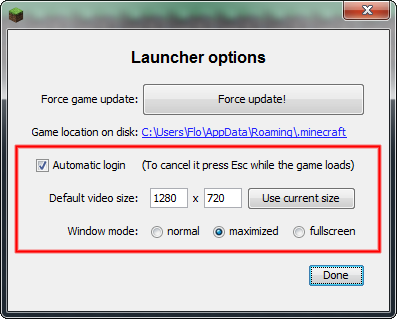
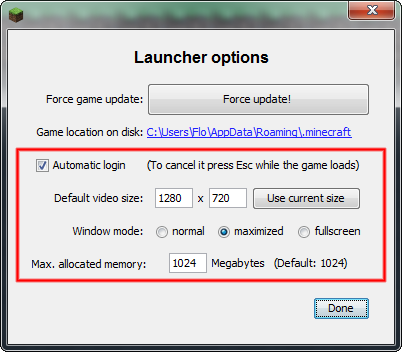
Release 2: Added option to change -Xmx setting (max. allocated memory)

diff --git a/src/MinecraftLauncher.java b/src/MinecraftLauncher.java
@@ -1,0 +1,66 @@
+// Decompiled by Jad v1.5.8g. Copyright 2001 Pavel Kouznetsov.
+// Jad home page: http://www.kpdus.com/jad.html
+// Decompiler options: packimports(3) braces deadcode 
+
+package net.minecraft;
+
+import java.net.URI;
+import java.net.URL;
+import java.security.CodeSource;
+import java.security.ProtectionDomain;
+import java.util.ArrayList;
+
+// Referenced classes of package net.minecraft:
+//            LauncherFrame
+
+public class MinecraftLauncher
+{
+
+    public MinecraftLauncher()
+    {
+    }
+
+    public static void main(String args[])
+        throws Exception
+    {
+        float f = Runtime.getRuntime().maxMemory() / 1024L / 1024L;
+        if(f > 511F)
+        {
+            LauncherFrame.main(args);
+        } else
+        {
+            try
+            {
+                String s = (net.minecraft.MinecraftLauncher.class).getProtectionDomain().getCodeSource().getLocation().toURI().getPath();
+                ArrayList arraylist = new ArrayList();
+                arraylist.add("javaw");
+                /* Auto login >>> */
+                //arraylist.add("-Xmx1024m");
+                arraylist.add("-Xmx" + LauncherOptions.get("Java-RAM", "1024") + "m");
+                /* <<< Auto login */
+                arraylist.add("-Dsun.java2d.noddraw=true");
+                arraylist.add("-Dsun.java2d.d3d=false");
+                arraylist.add("-Dsun.java2d.opengl=false");
+                arraylist.add("-Dsun.java2d.pmoffscreen=false");
+                arraylist.add("-classpath");
+                arraylist.add(s);
+                arraylist.add("net.minecraft.LauncherFrame");
+                ProcessBuilder processbuilder = new ProcessBuilder(arraylist);
+                Process process = processbuilder.start();
+                if(process == null)
+                {
+                    throw new Exception("!");
+                }
+                System.exit(0);
+            }
+            catch(Exception exception)
+            {
+                exception.printStackTrace();
+                LauncherFrame.main(args);
+            }
+        }
+    }
+
+    private static final int MIN_HEAP = 511;
+    private static final int RECOMMENDED_HEAP = 1024;
+}

diff --git a/src/OptionsPanel.java b/src/OptionsPanel.java
@@ -131,6 +131,14 @@ public class OptionsPanel extends JDialog
         else
         	stateNormal.setSelected(true);
         /* <<< Auto Resize */
+        /* RAM Mod >>> */
+        JPanel ramPanel = new JPanel();
+        final JTextField ramField = new JTextField( LauncherOptions.get("Java-RAM", "1024"), 4 );
+        ramPanel.add(ramField, "West");
+        ramPanel.add(new JLabel("Megabytes   (Default: 1024)"), "Center");
+        jpanel2.add(new JLabel("Max. allocated memory:", 4));
+        jpanel3.add(ramPanel);
+        /* <<< RAM Mod */
         JPanel jpanel4 = new JPanel(new BorderLayout());
         jpanel4.add(new JPanel(), "Center");
         JButton jbutton = new JButton("Done");
@@ -148,6 +156,11 @@ public class OptionsPanel extends JDialog
             	if( stateFullscreen.isSelected() )
             		javax.swing.JOptionPane.showMessageDialog(OptionsPanel.this, "You have selected fullscreen mode.\nThis window mode has some limitations at the moment because of a bug in Minecraft.\nYou will not be able to leave it with F11, for example.", "Fullscreen mode", JOptionPane.INFORMATION_MESSAGE);
             	/* <<< Auto Resize */
+                /* RAM Mod >>> */
+            	if( ramField.getText().equals( LauncherOptions.get("Java-RAM", "1024") ) == false )
+            		javax.swing.JOptionPane.showMessageDialog(OptionsPanel.this, "You have changed the maximum allocated memory.\nPlease restart the launcher for this setting to take effect.", "Max. memory allocation changed", JOptionPane.INFORMATION_MESSAGE);
+                LauncherOptions.set("Java-RAM", ramField.getText() );
+                /* <<< RAM Mod */
                 setVisible(false);
             }
 
